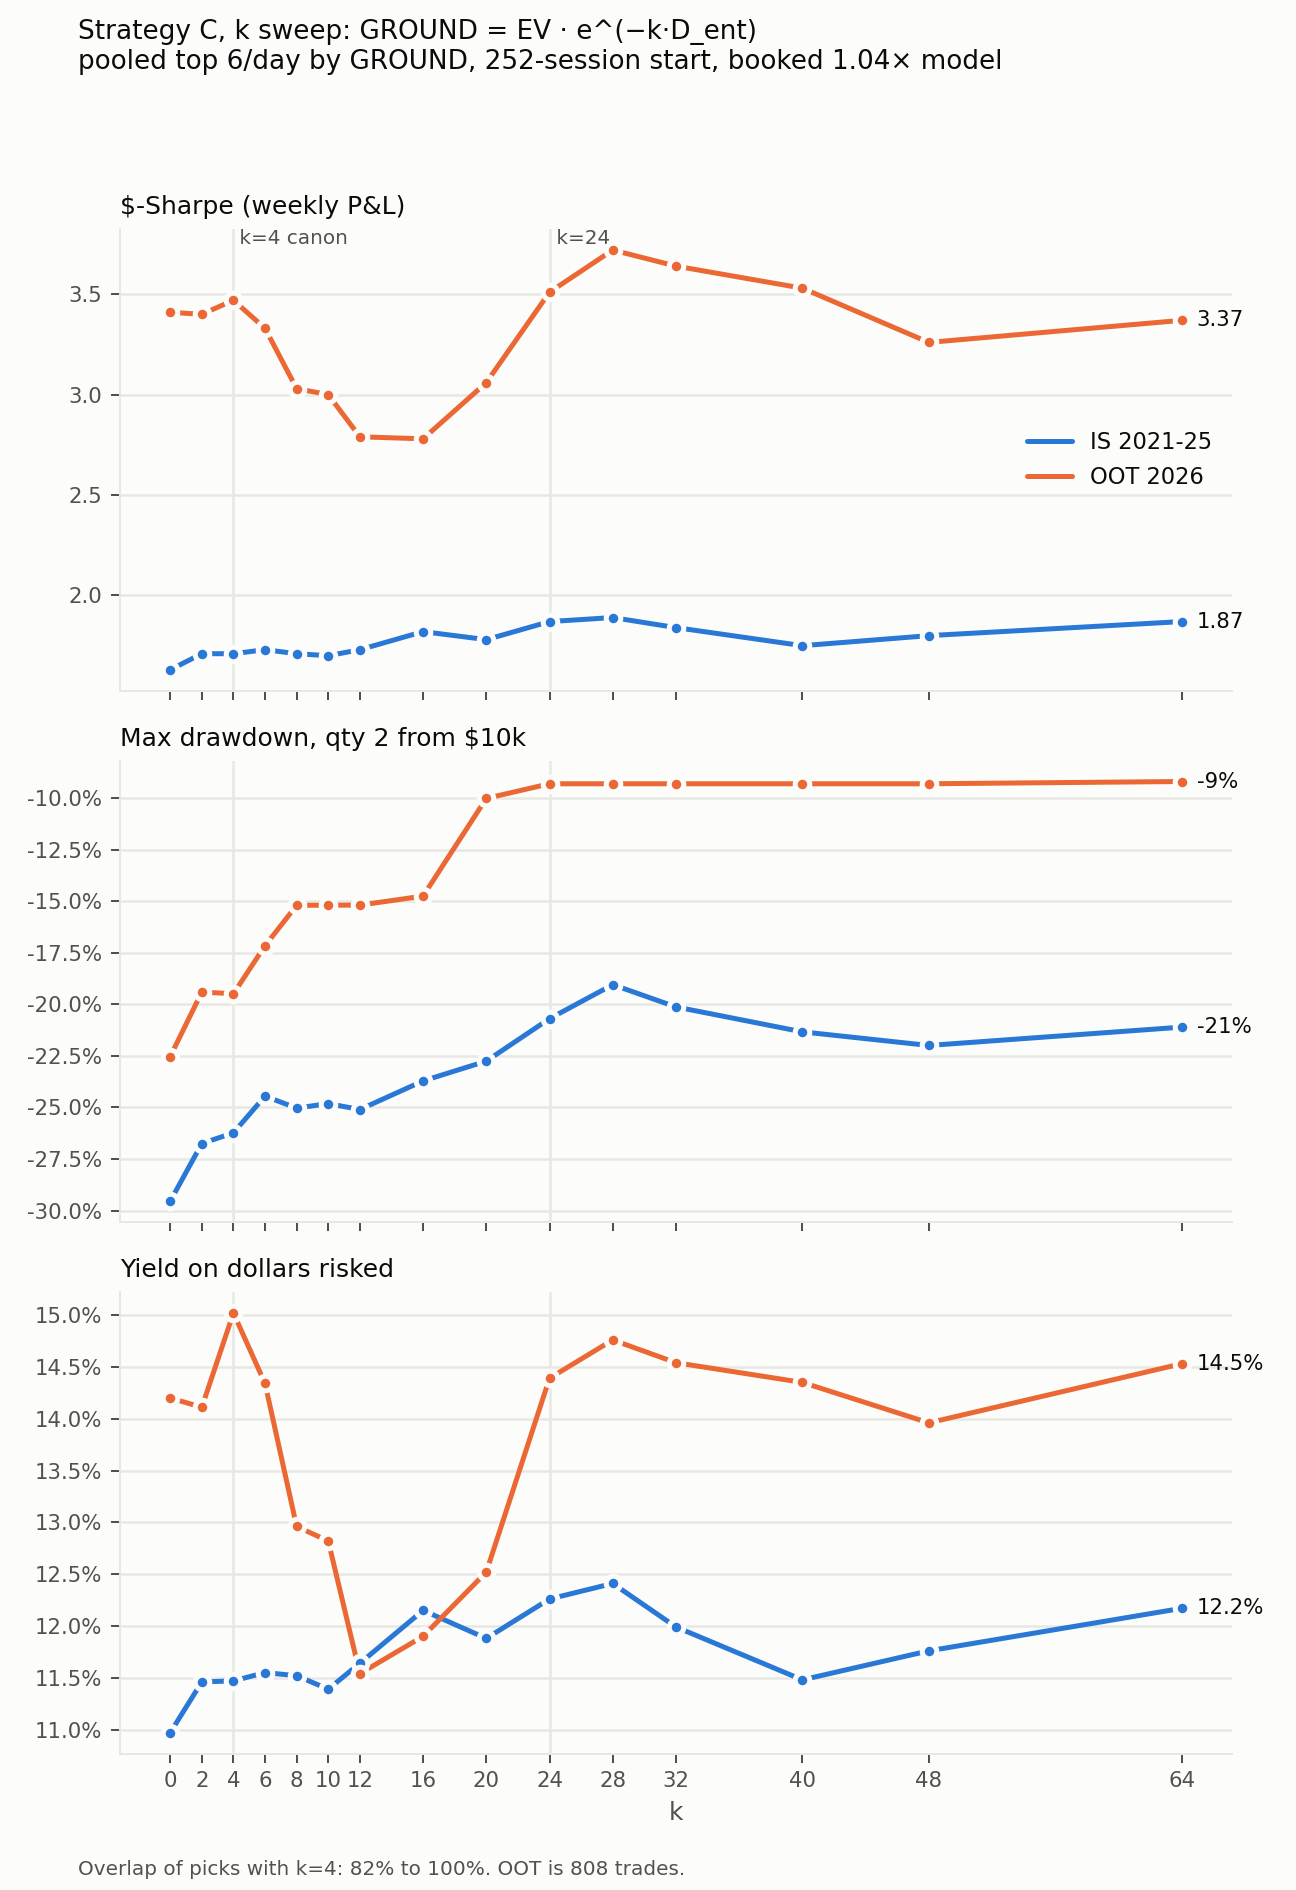
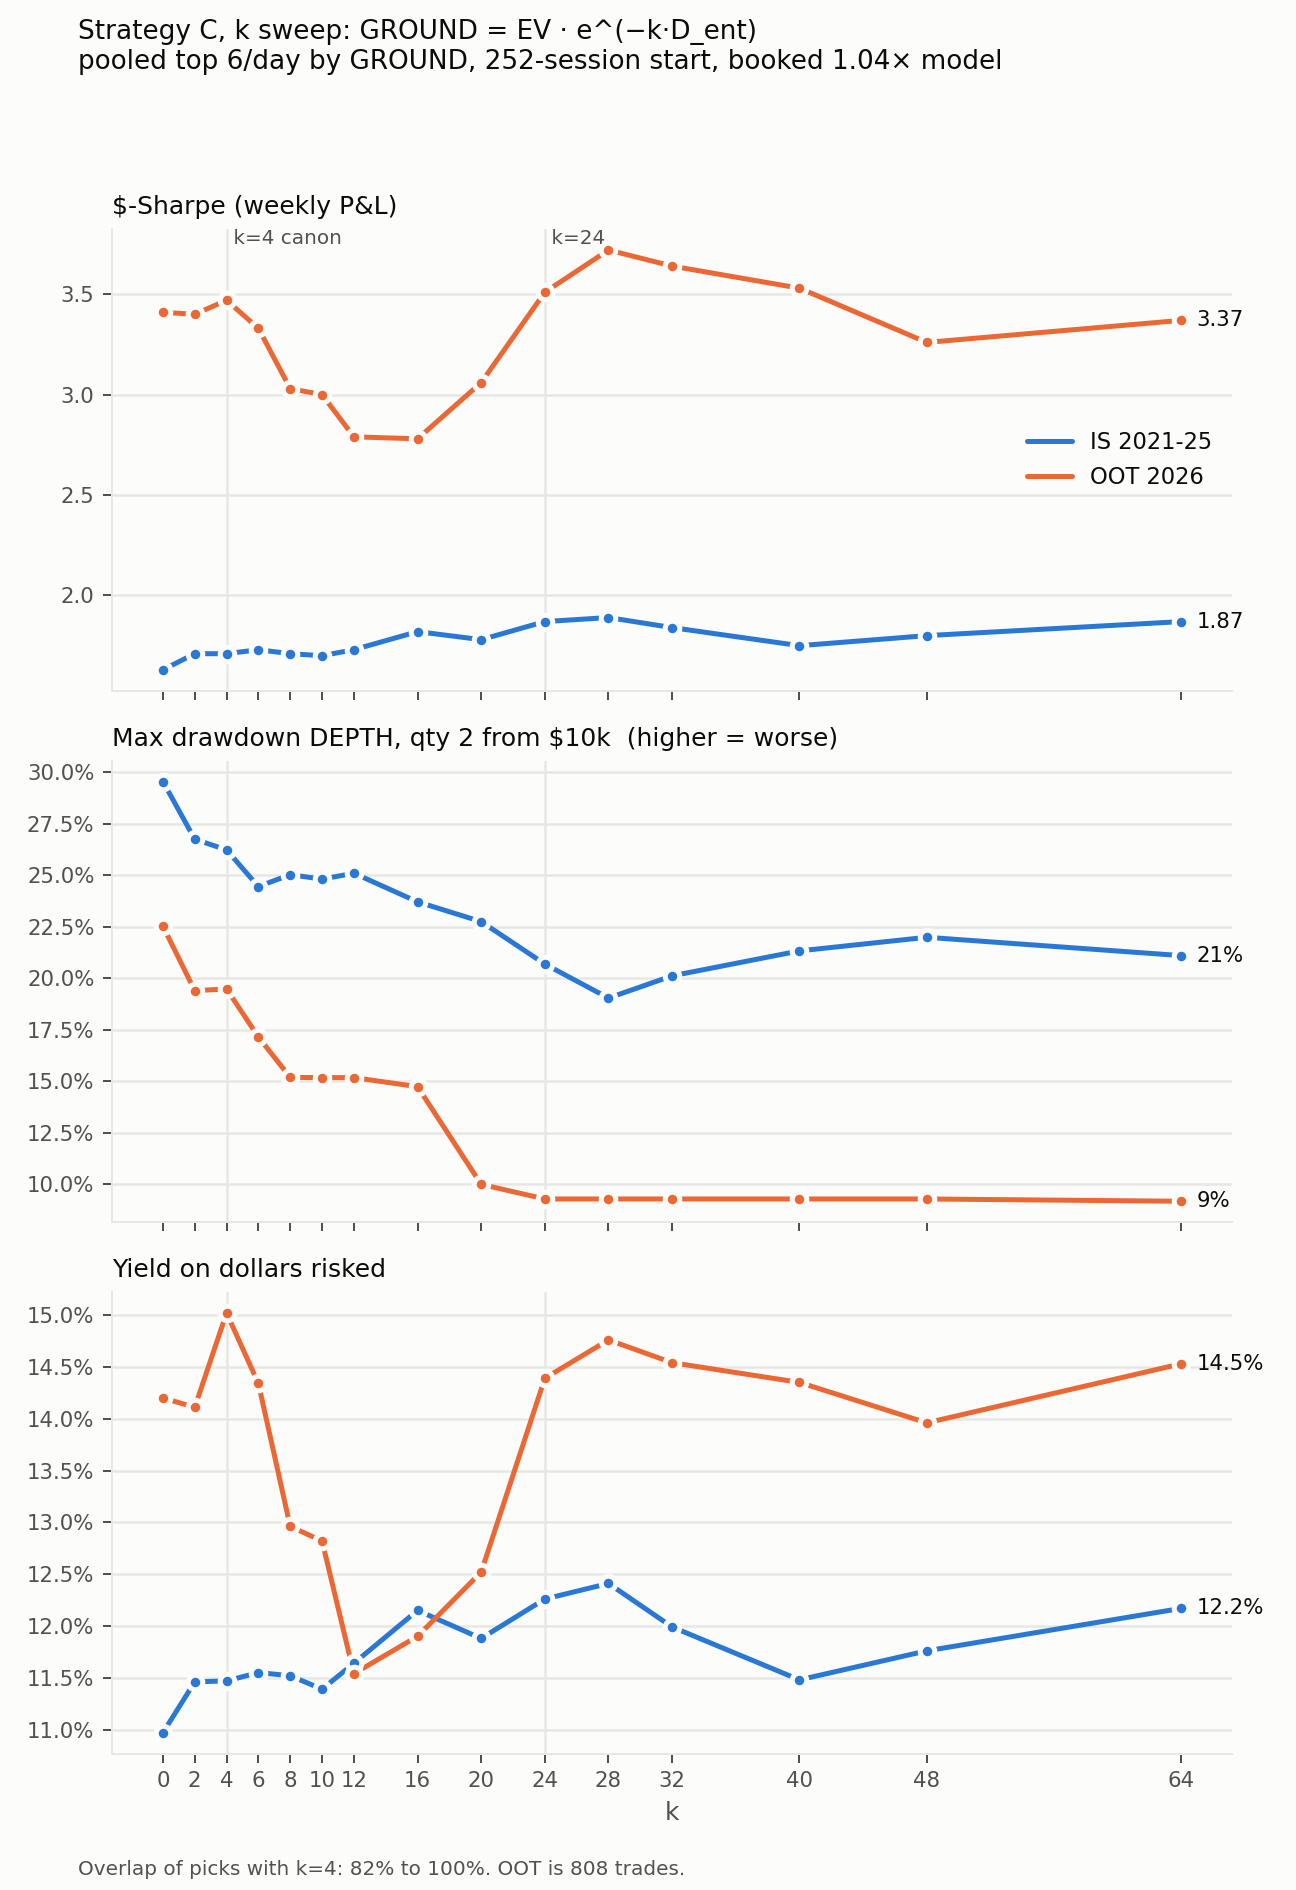
k sweep chart: drawdown as depth (higher = worse)

diff --git a/research/fable_canon_2026_09_30/plot_k_sweep.py b/research/fable_canon_2026_09_30/plot_k_sweep.py
@@ -5,10 +5,11 @@ import pandas as pd, matplotlib
 matplotlib.use("Agg"); import matplotlib.pyplot as plt
 HERE = Path(__file__).resolve().parent
 df = pd.read_csv(HERE / "k_sweep_C_ext.csv").sort_values("k")
+df["IS_dd"] = -df.IS_dd; df["OOT_dd"] = -df.OOT_dd   # depth, positive: higher = worse
 SURF, INK, INK2, GRID = "#fcfcfb", "#0b0b0b", "#52514e", "#e8e7e3"
 C_IS, C_OOT = "#2a78d6", "#eb6834"
 panels = [("$-Sharpe (weekly P&L)", "IS_dsh", "OOT_dsh", "{:.2f}"),
-          ("Max drawdown, qty 2 from $10k", "IS_dd", "OOT_dd", "{:.0f}%"),
+          ("Max drawdown DEPTH, qty 2 from $10k  (higher = worse)", "IS_dd", "OOT_dd", "{:.0f}%"),
           ("Yield on dollars risked", "IS_yield", "OOT_yield", "{:.1f}%")]
 fig, axes = plt.subplots(3, 1, figsize=(7.2, 10.5), dpi=180, facecolor=SURF, sharex=True)
 fig.suptitle("Strategy C, k sweep: GROUND = EV · e^(−k·D_ent)\npooled top 6/day by GROUND, 252-session start, booked 1.04× model",
